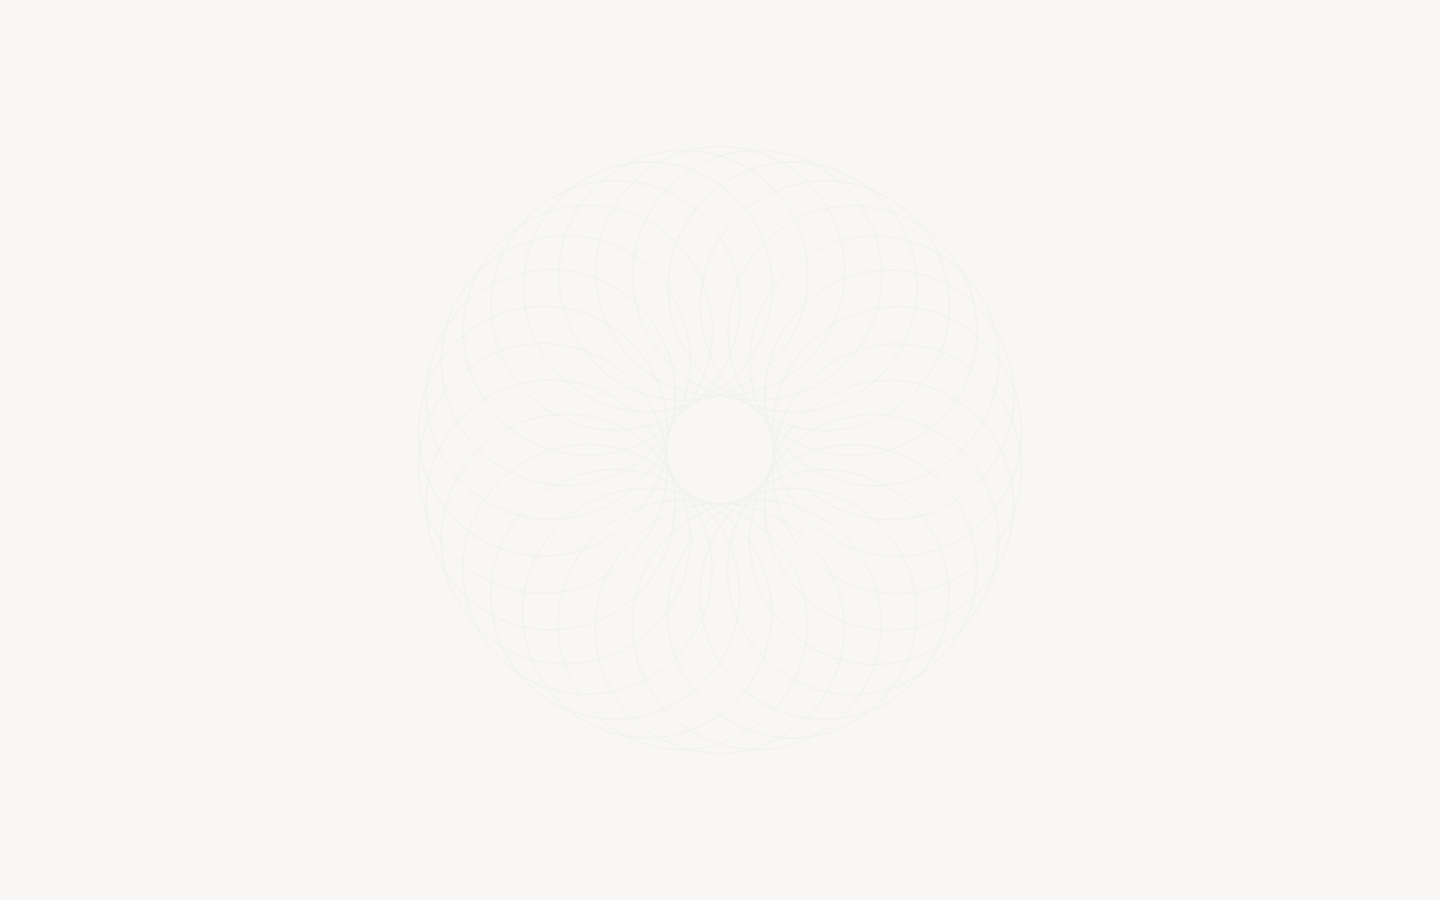
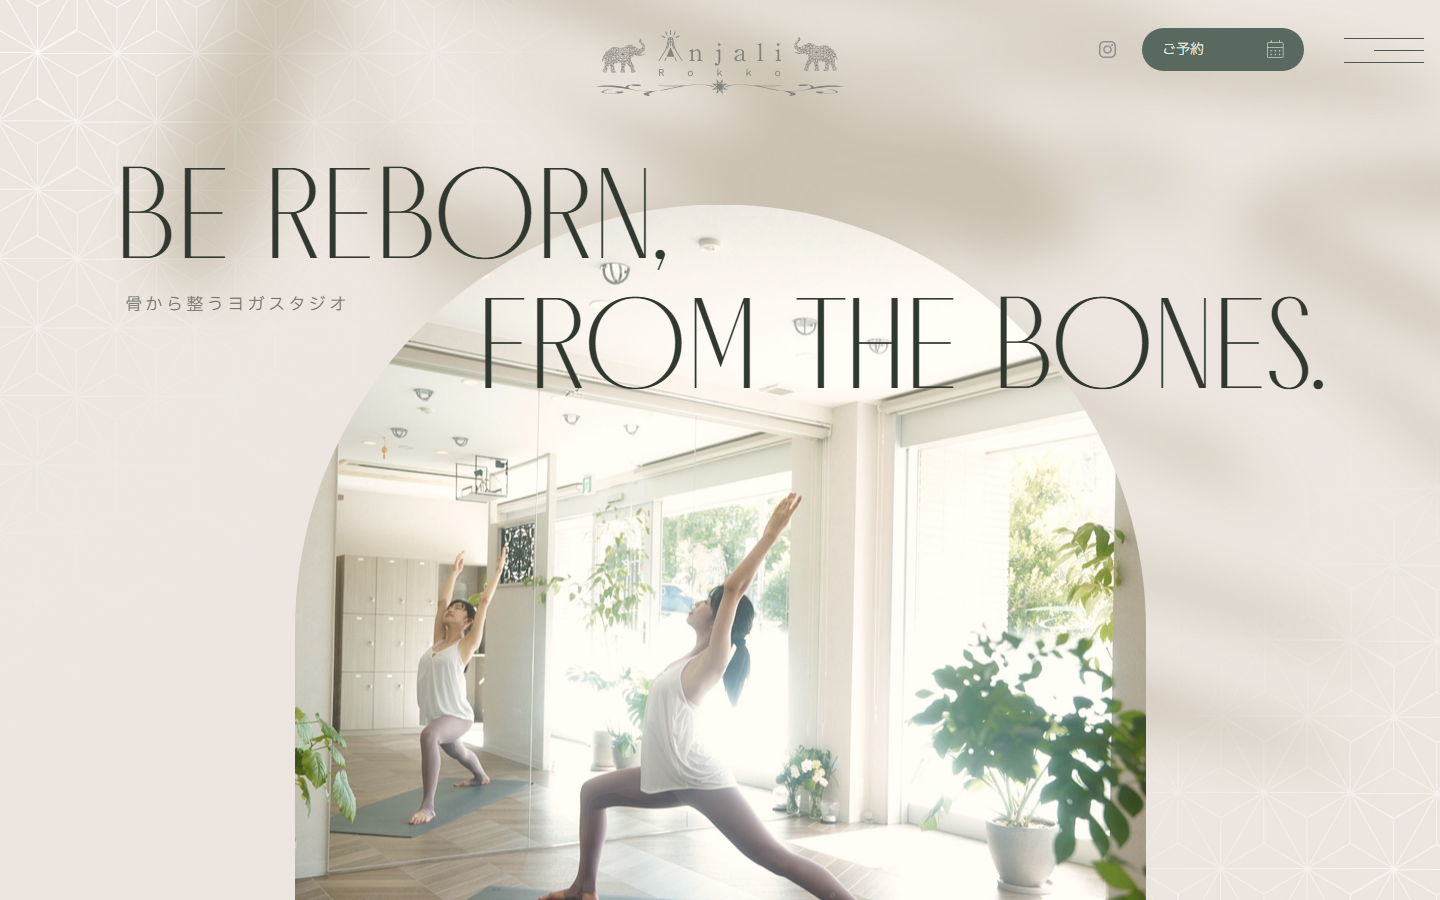
feat: update project README and add new screenshots for edu-asuka and spo-anjali

diff --git a/public/projects/README.md b/public/projects/README.md
@@ -8,11 +8,7 @@ the `image` field of each entry in `lib/content.ts`
 - Any file missing (some sites block automated capture behind a firewall) falls
   back to a generated mockup automatically, so the site never looks broken.
 
-## Sites still needing a real screenshot
+## Status
 
-These render only a loading splash / blank to automated capture (client-side
-intro animations), so they currently use the generated mockup. Take a
-screenshot yourself (landscape, ~1440×900, above the fold) and save it here
-with the exact filename:
-
-- `edu-asuka.png` — あすかのサマバケ
+All projects currently have a real site screenshot. To refresh one, capture it
+(landscape, ~1440×900, above the fold) and overwrite the file here.